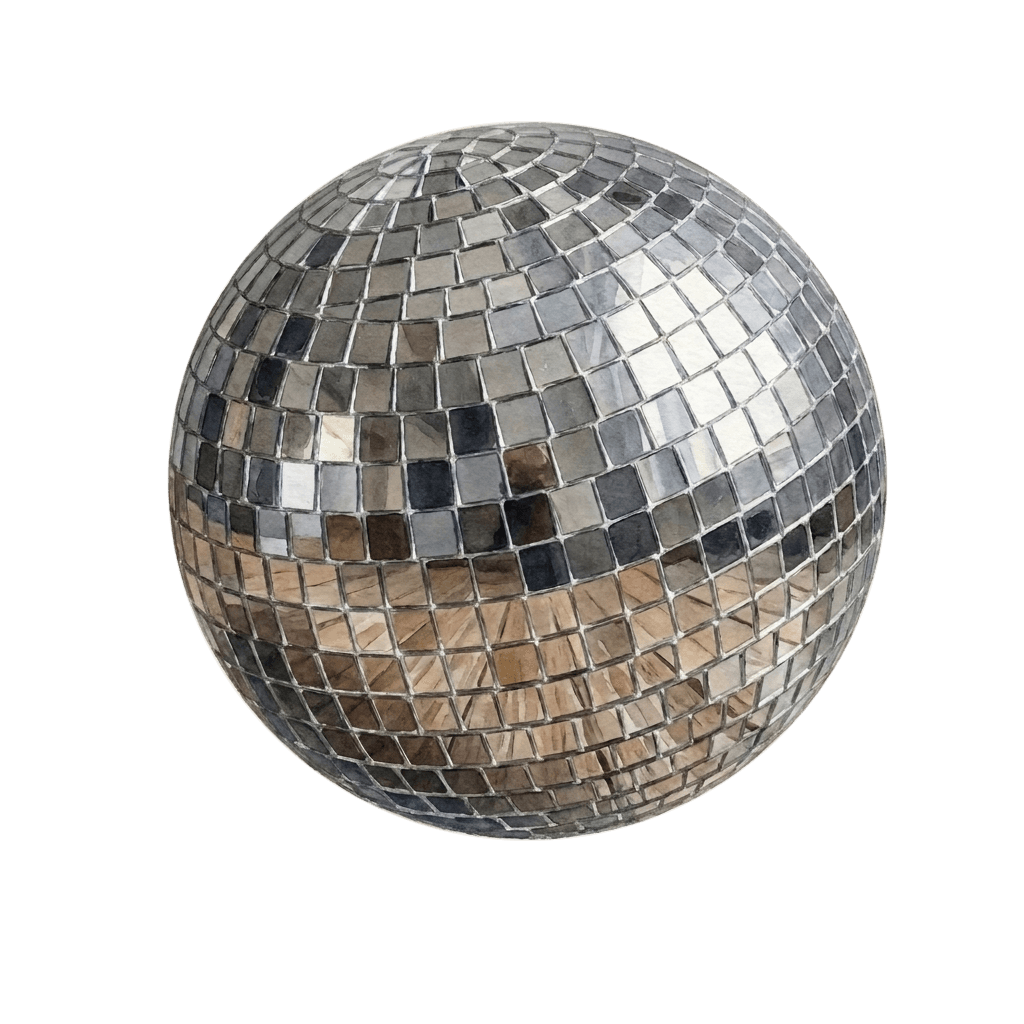
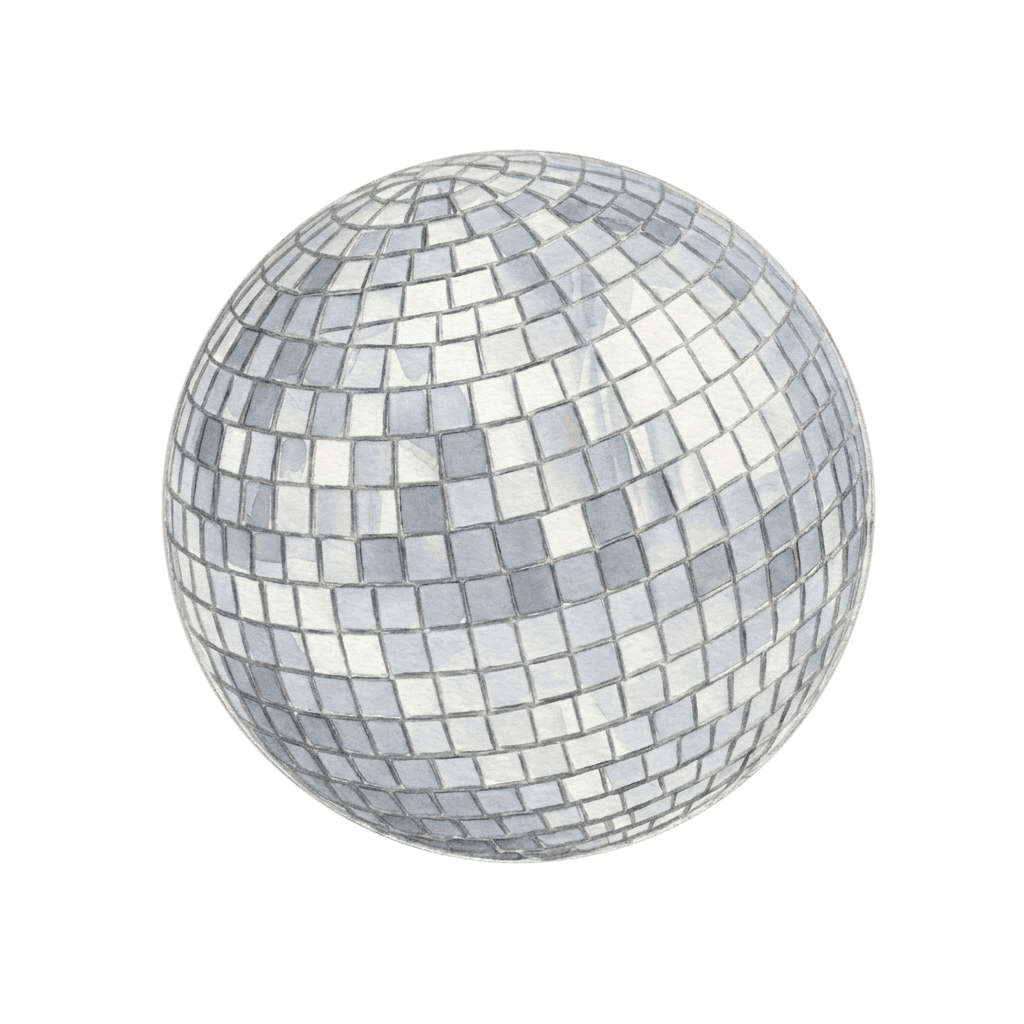
feat (assets) 🖼️: actualizar bola-disco-2.jpeg con la nueva version y aplicar mascara circular

diff --git a/src/modules/invitation/components/itinerary/_itinerary.scss b/src/modules/invitation/components/itinerary/_itinerary.scss
@@ -72,4 +72,15 @@
         font-style: italic;
     }
 
+    &__bola {
+        position: absolute;
+        bottom: -12%;
+        left: -5%;
+        z-index: 2;
+
+        img {
+            width: 20rem;
+        }
+    }
+
 }

diff --git a/scripts/make-transparent-flood.js b/scripts/make-transparent-flood.js
@@ -24,7 +24,7 @@ const filesToConvert = [
     { name: 'base-flower.jpeg', out: 'base-flower.png', type: 'flood', tolerance: 30 },
     { name: 'base-flower-2.jpeg', out: 'base-flower-2.png', type: 'flood', tolerance: 30 },
     { name: 'itinerary-frame.jpeg', out: 'itinerary-frame.png', type: 'flood', tolerance: 40, extraSeeds: [{ x: 384, y: 688 }, { x: 384, y: 1200 }, { x: 100, y: 1200 }, { x: 668, y: 1200 }] },
-    { name: 'bola-disco-2.jpeg', out: 'bola-disco-2.png', type: 'circle', cx: 527, cy: 480.5, r: 359 },
+    { name: 'bola-disco-2.jpeg', out: 'bola-disco-2.png', type: 'circle', cx: 518, cy: 506, r: 356 },
 ];
 
 async function removeBackgroundFloodFill(data, info, colorTolerance, refPixel, extraSeeds) {